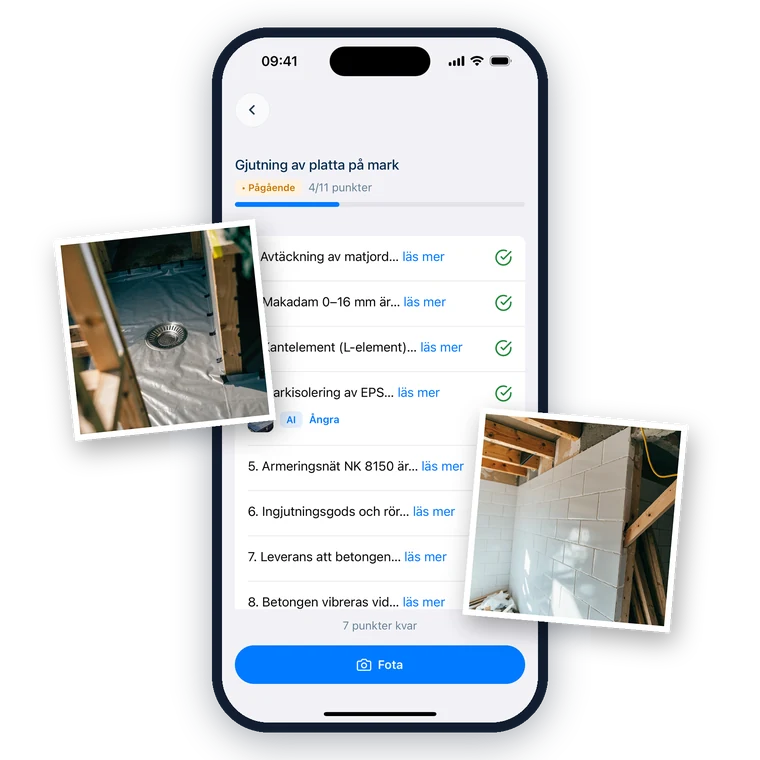
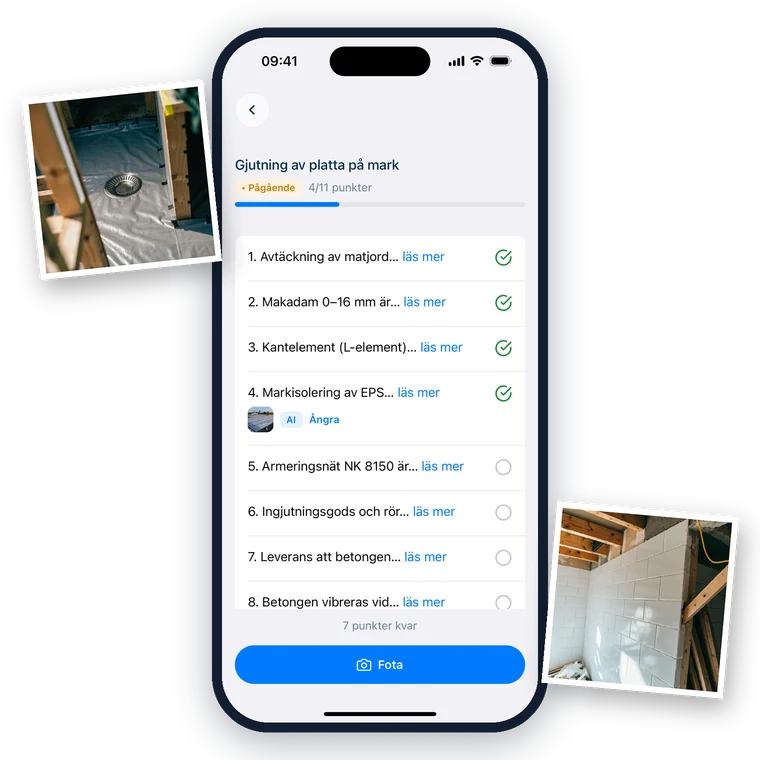
fix(egenkontroll): design review — empty home has one action (no FAB), read error zone outlined red, readable second lines on the gradient, Logga ut without chevron, slide 2 photos clear of the content
Claude-Session: https://claude.ai/code/session_01JoTT4EJKirARvu3ov3sdMb

Changed region(s): [[0.0303, 0.0908, 0.3934, 0.6053], [0.6053, 0.5447, 0.9987, 0.9382]]

diff --git a/src/screens/Egenkontroll/EgenkontrollListScreen.jsx b/src/screens/Egenkontroll/EgenkontrollListScreen.jsx
@@ -189,7 +189,10 @@ function HomeList({
                     {shortTitle(item.title)}
                   </Text>
                   {item.address ? (
-                    <Text style={s.metaText} numberOfLines={1}>
+                    <Text
+                      style={[s.metaText, { opacity: 0.85 }]}
+                      numberOfLines={1}
+                    >
                       {item.address}
                     </Text>
                   ) : null}
@@ -241,7 +244,8 @@ function HomeList({
         iconColor={dark ? "#FFFFFF" : lightHome ? theme.colors.text : "#052D50"}
         onLeftPress={onReload}
         onRightPress={() => navigation.navigate("Menu")}
-        showAddButton
+        // Empty list: the upload zone is the one action — no second "+".
+        showAddButton={!!items.length || loading || !!loadError}
         onAddPress={() => navigation.navigate("NewEgenkontroll")}
       />
     </LinearGradient>

diff --git a/src/components/common/MenuButton/MenuButton.jsx b/src/components/common/MenuButton/MenuButton.jsx
@@ -13,6 +13,7 @@ export const MenuButton = ({
   icon,
   isLast = false,
   onPress,
+  chevron = true,
 }) => {
   const navigation = useNavigation();
   const { theme } = useTheme();
@@ -42,12 +43,14 @@ export const MenuButton = ({
         <Text style={[styles.menuTitle, { color: c.textPrimary }]}>
           {title}
         </Text>
-        <AppIcon
-          name="chevron-right"
-          size={16}
-          color={c.placeholder}
-          strokeWidth={2}
-        />
+        {chevron ? (
+          <AppIcon
+            name="chevron-right"
+            size={16}
+            color={c.placeholder}
+            strokeWidth={2}
+          />
+        ) : null}
       </View>
     </TouchableOpacity>
   );

diff --git a/src/screens/Egenkontroll/UploadZone.jsx b/src/screens/Egenkontroll/UploadZone.jsx
@@ -43,7 +43,10 @@ export default function UploadZone({
       disabled={reading}
       style={[
         styles.zone,
-        { borderColor: `${blue}66`, backgroundColor: surface || `${blue}0F` },
+        {
+          borderColor: failed ? `${c.danger}88` : `${blue}66`,
+          backgroundColor: surface || `${blue}0F`,
+        },
       ]}
     >
       <View
@@ -85,7 +88,7 @@ export default function UploadZone({
         <Text
           style={[
             cardStyles.cardSecondaryText,
-            tint ? { color: tint, opacity: 0.6 } : null,
+            tint ? { color: tint, opacity: 0.85 } : null,
           ]}
         >
           PDF · foto

diff --git a/src/screens/Menu/MenuScreen.jsx b/src/screens/Menu/MenuScreen.jsx
@@ -701,6 +701,8 @@ export default function MenuScreen() {
                       screen={item.screen ? item.screen : "Menu"}
                       params={item.params}
                       onPress={item.onPress}
+                      // Action rows (Logga ut) don't navigate — no chevron.
+                      chevron={!item.onPress}
                       title={item.title}
                       icon={MENU_ICONS[item.id] || "circle"}
                       isLast={index === section.items.length - 1}
